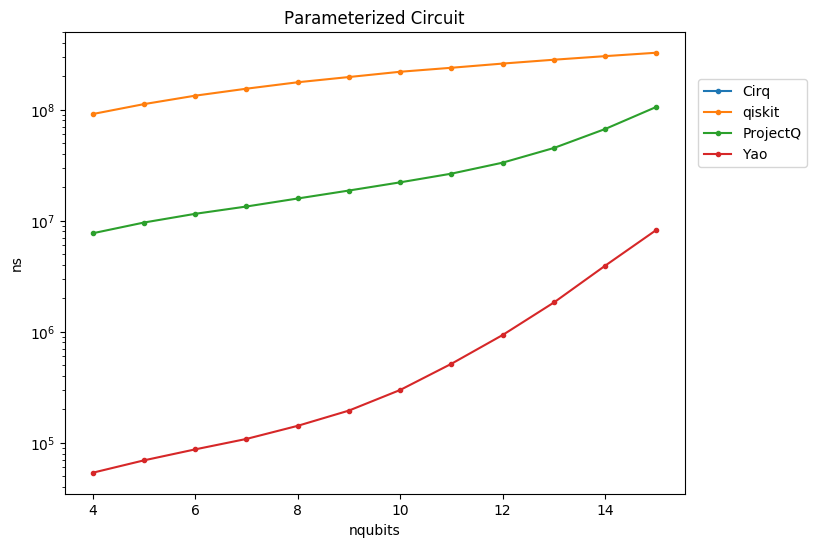
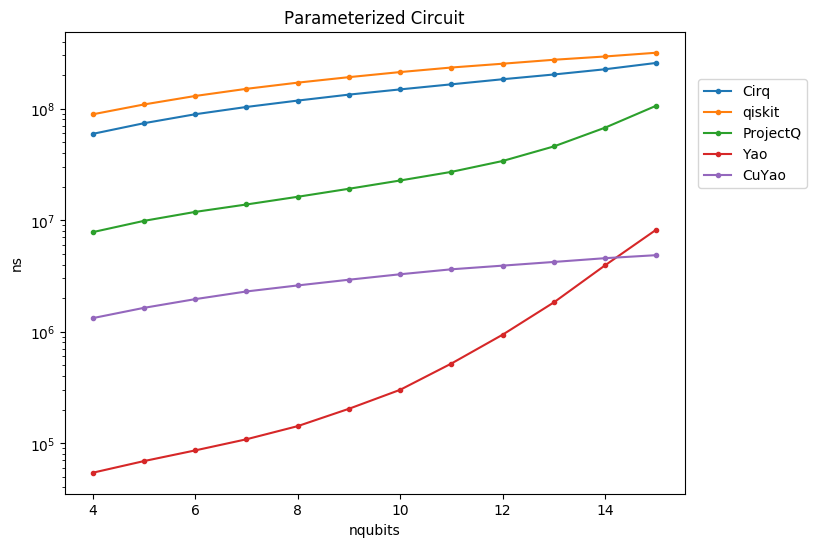
update

diff --git a/plot.py b/plot.py
@@ -65,7 +65,7 @@ lgd = fig.legend(
     bbox_to_anchor=(1.09, 0.9))
 
 plt.tight_layout()
-plt.savefig('gates.pdf', bbox_extra_artists=(lgd,), bbox_inches='tight')
+plt.savefig('gates.png', bbox_extra_artists=(lgd,), bbox_inches='tight')
 
 df_projectq = wash_benchmark_data('projectq', ['QCBM'])
 df_qiskit = wash_benchmark_data('qiskit', ['QCBM'])
@@ -78,14 +78,15 @@ l1 = ax.semilogy(df_projectq["nqubits"], df_projectq["QCBM"], '-o', markersize=3
 l2 = ax.semilogy(df_qiskit["nqubits"], df_qiskit["QCBM"], '-o', markersize=3)
 l3 = ax.semilogy(df_cirq["nqubits"], df_cirq["QCBM"], '-o', markersize=3)
 l4 = ax.semilogy(df_yao["nqubits"], df_yao["QCBM"], '-o', markersize=3)
+l5 = ax.semilogy(df_yao["nqubits"], df_yao["QCBM_cuda"], '-o', markersize=3)
 ax.set(title="Parameterized Circuit", xlabel="nqubits", ylabel="ns")
 lgd = ax.legend(
-    [l1, l2, l3, l4],
-    labels=["Cirq", "qiskit", "ProjectQ", "Yao"],
+    [l1, l2, l3, l4, l5],
+    labels=["Cirq", "qiskit", "ProjectQ", "Yao", "CuYao"],
     loc="upper right",
     borderaxespad=0.1,
     bbox_to_anchor=(1.2, 0.9))
-plt.savefig('pcircuit.pdf', bbox_extra_artists=(lgd,), bbox_inches='tight')
+plt.savefig('pcircuit.png', bbox_extra_artists=(lgd,), bbox_inches='tight')
 
 fig = plt.figure(figsize=(8, 6))
 ax = plt.subplot(111)
@@ -98,4 +99,4 @@ lgd = ax.legend(
     loc="upper right",
     borderaxespad=0.1,
     bbox_to_anchor=(1.2, 0.9))
-plt.savefig('pcircuit_batch.pdf', bbox_extra_artists=(lgd,), bbox_inches='tight')
+plt.savefig('pcircuit_batch.png', bbox_extra_artists=(lgd,), bbox_inches='tight')
